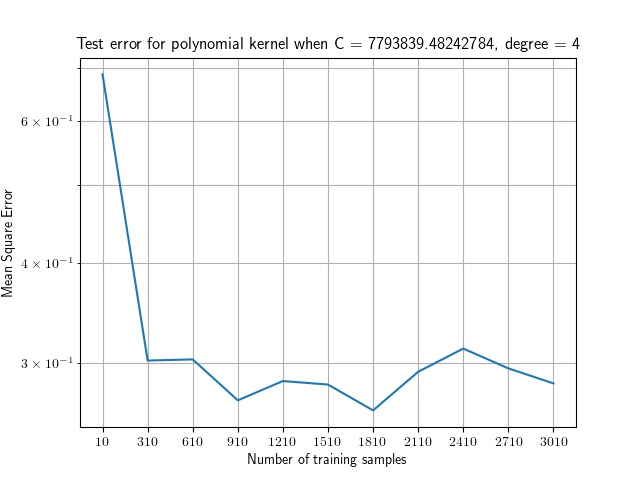
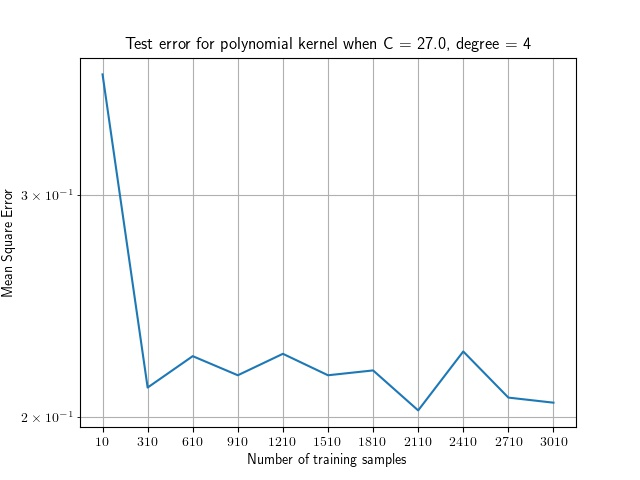
add more fig

diff --git a/main.py b/main.py
@@ -18,7 +18,7 @@ args = parser.parse_args()
 def question3(train, test):
   #global c_range
   c_range = np.linspace(-5, 20, 10)
-  c_range = np.linspace(-5, 5, 5)
+  c_range = np.linspace(-3, 3, 5)
   #c_range = np.linspace(-5, 5, 2)
   C = 3** c_range
   
@@ -138,7 +138,7 @@ def main():
 
   best_param = question4(train, test, best_param)
   print(f"q4 {best_param}")
-  exit()
+  
   question5(train, test, best_param)
 
 if __name__ == "__main__":
